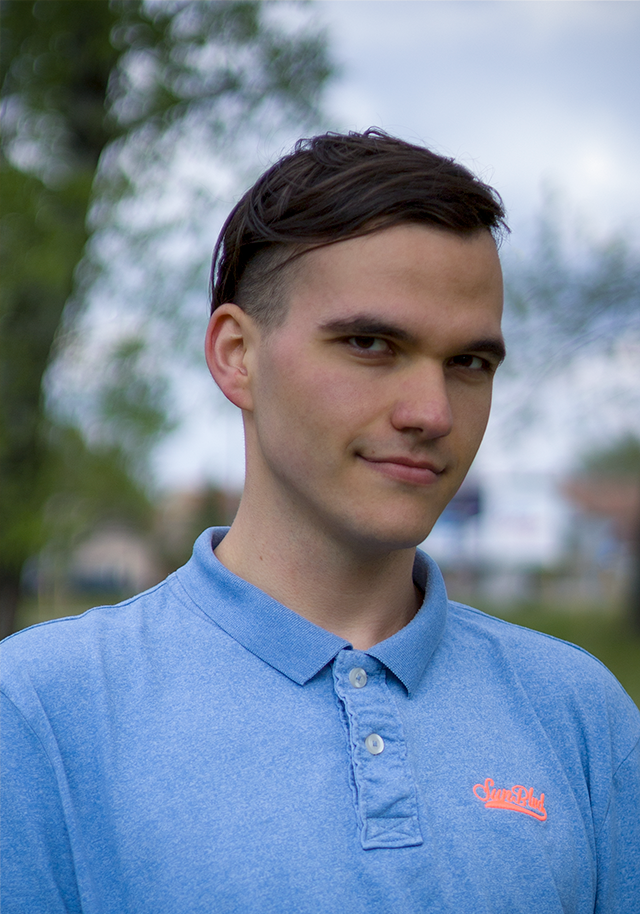
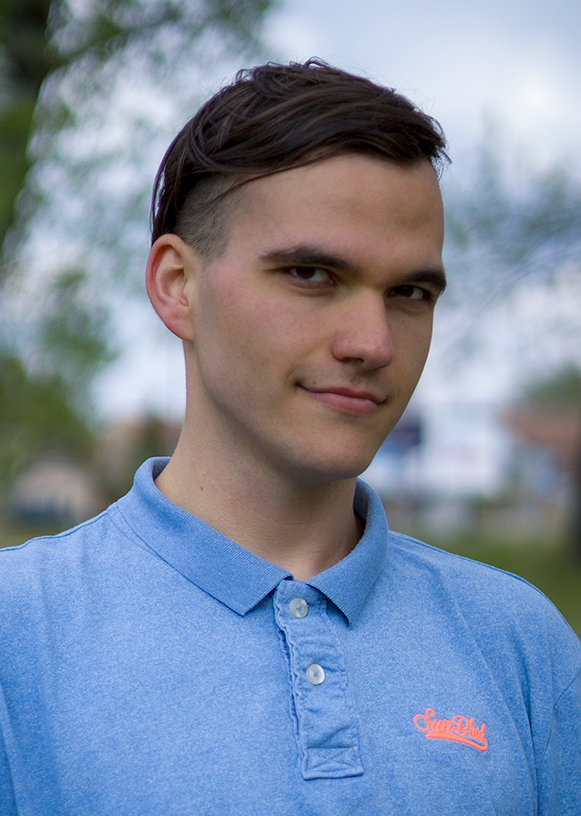
re

diff --git a/style.css b/style.css
@@ -91,20 +91,22 @@ main {
     display: block;
     border: 4px solid #ffffff;
     object-fit: cover;
-    object-position: 50% 75%;
-    height: 100%;
-    width: 110%;
-}
-
-.my-picture {
     height: 250px;
     width: 178px;
 }
 
-section:first-child {
-    margin: 4rem 0;
+.my-picture {
 }
 
+section:first-child {
+    margin: 4rem 0 0;
+}
+
+section {
+    display: flex;
+    flex-direction: column;
+    align-items: center;
+}
 
 
 

diff --git a/index.html b/index.html
@@ -46,9 +46,7 @@
     </header>
     <main>
         <section>
-            <div class="my-picture">
-                <img src="images/myPicture.png" alt="My Picture">
-            </div>
+            <img src="images/myPicture.png" alt="My Picture">
             <h2>Srđan Gogić</h2>
         </section>
         <section>
